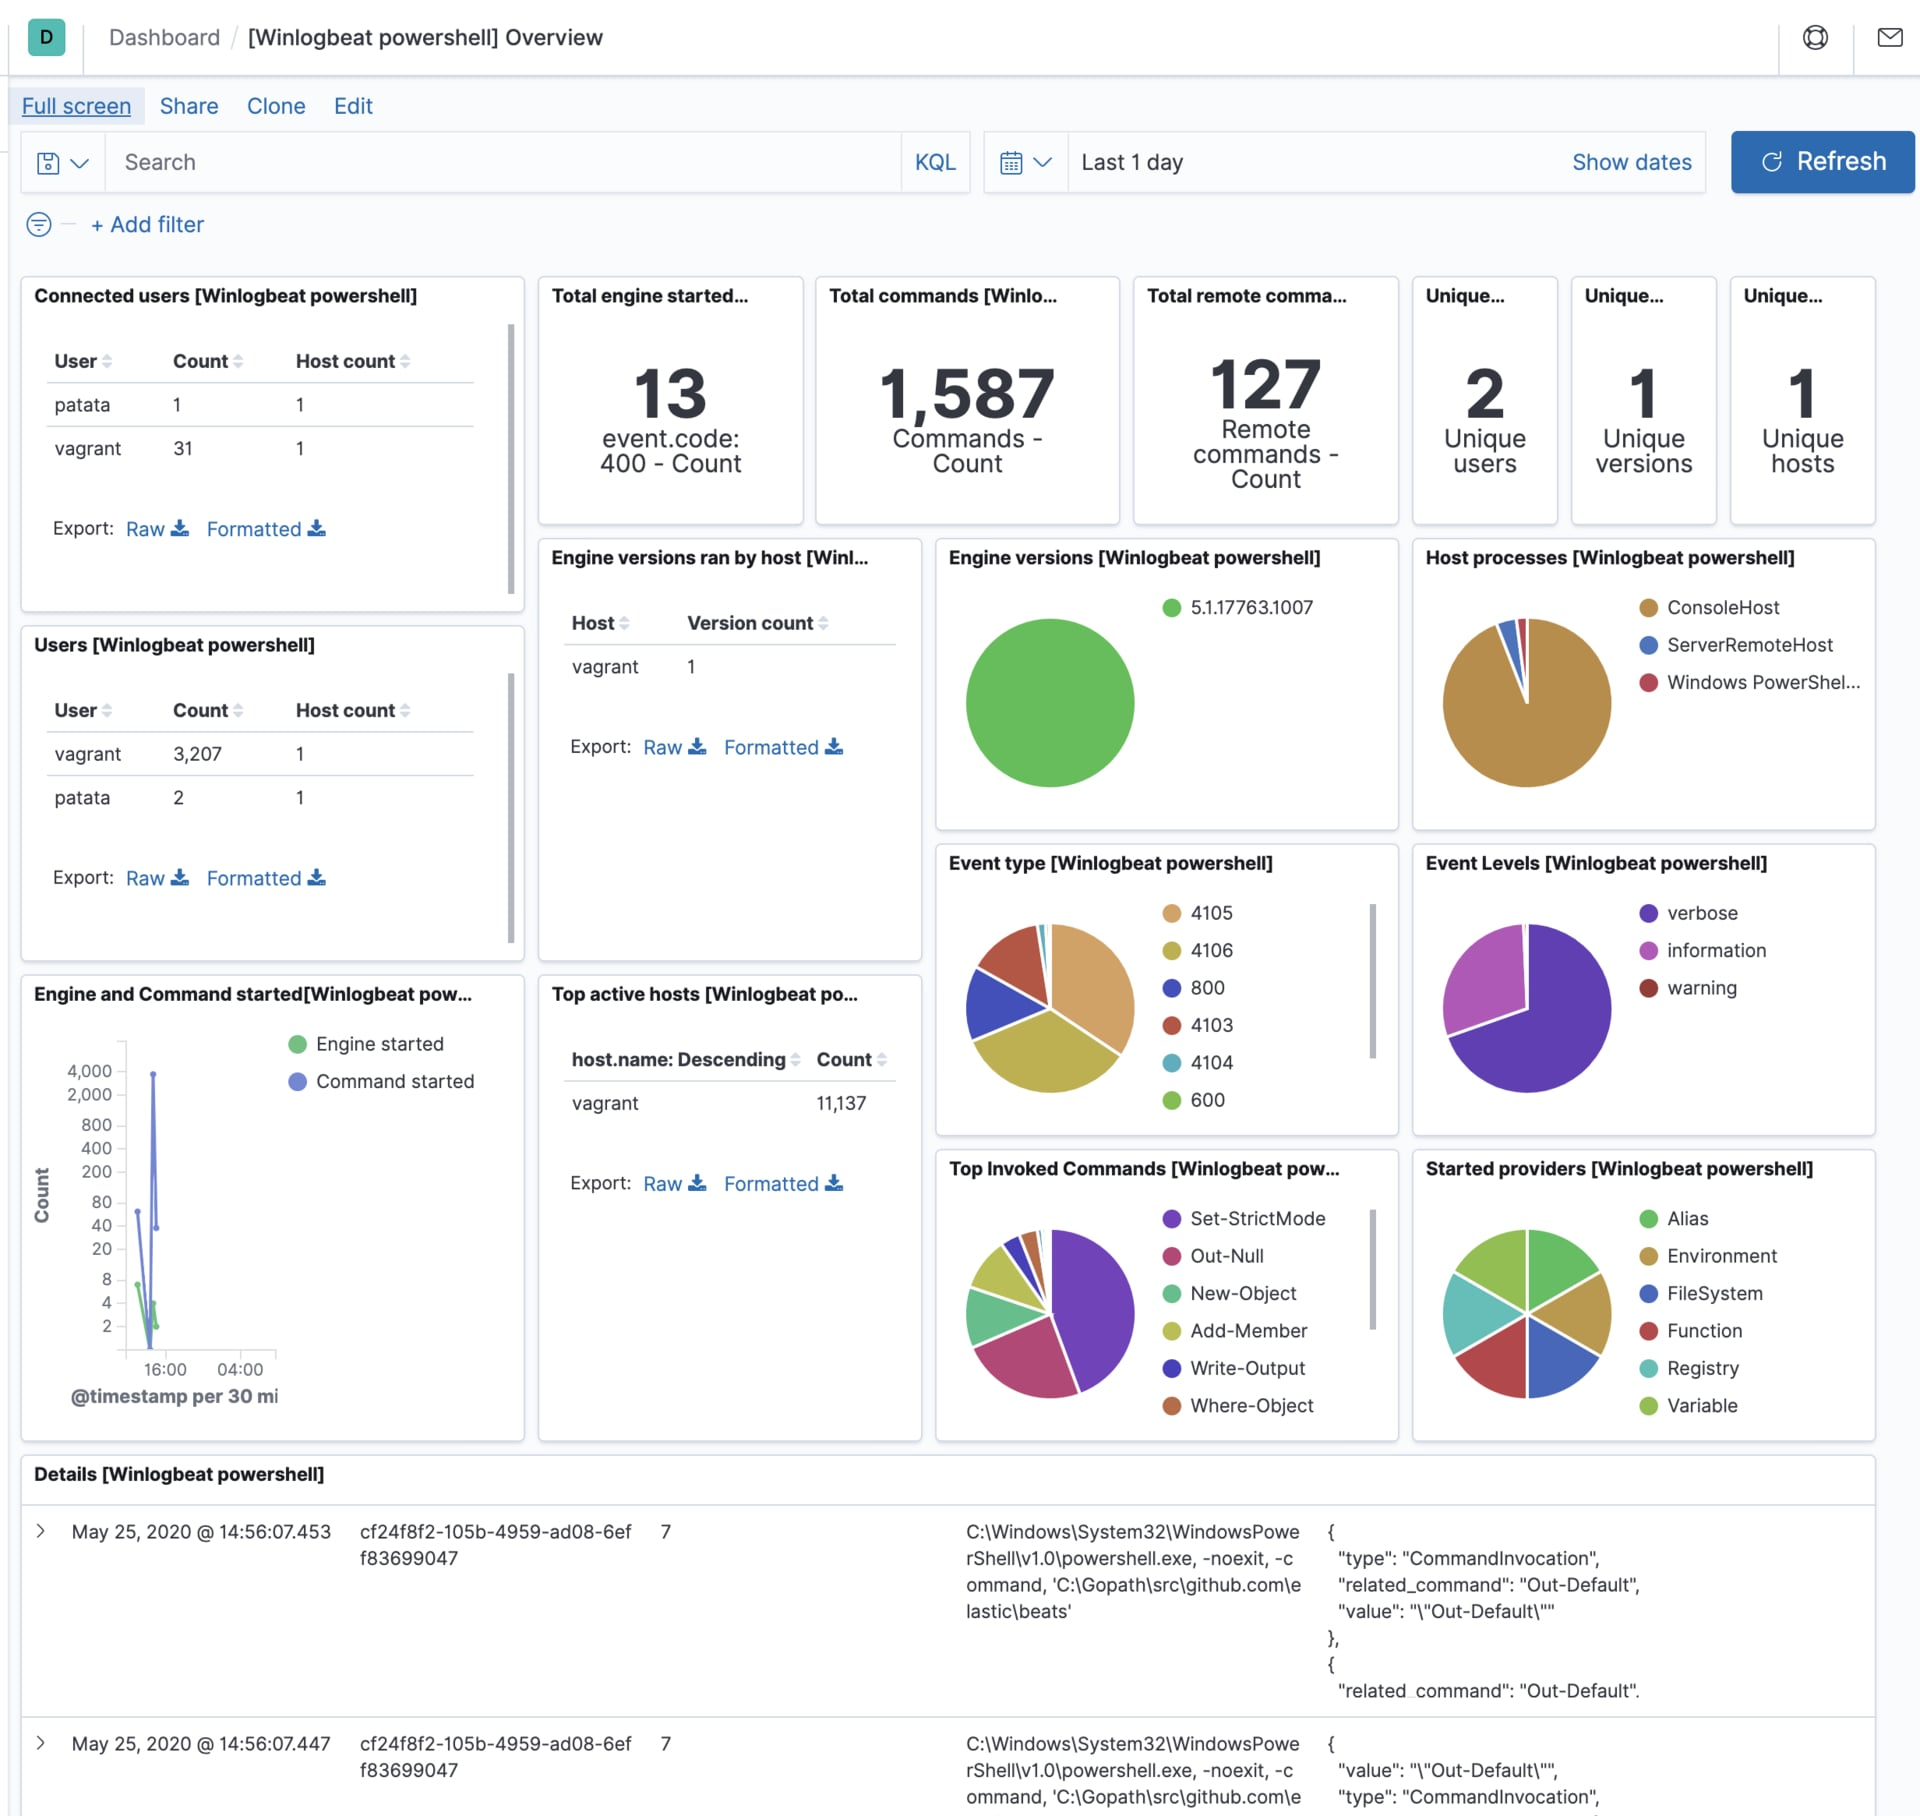
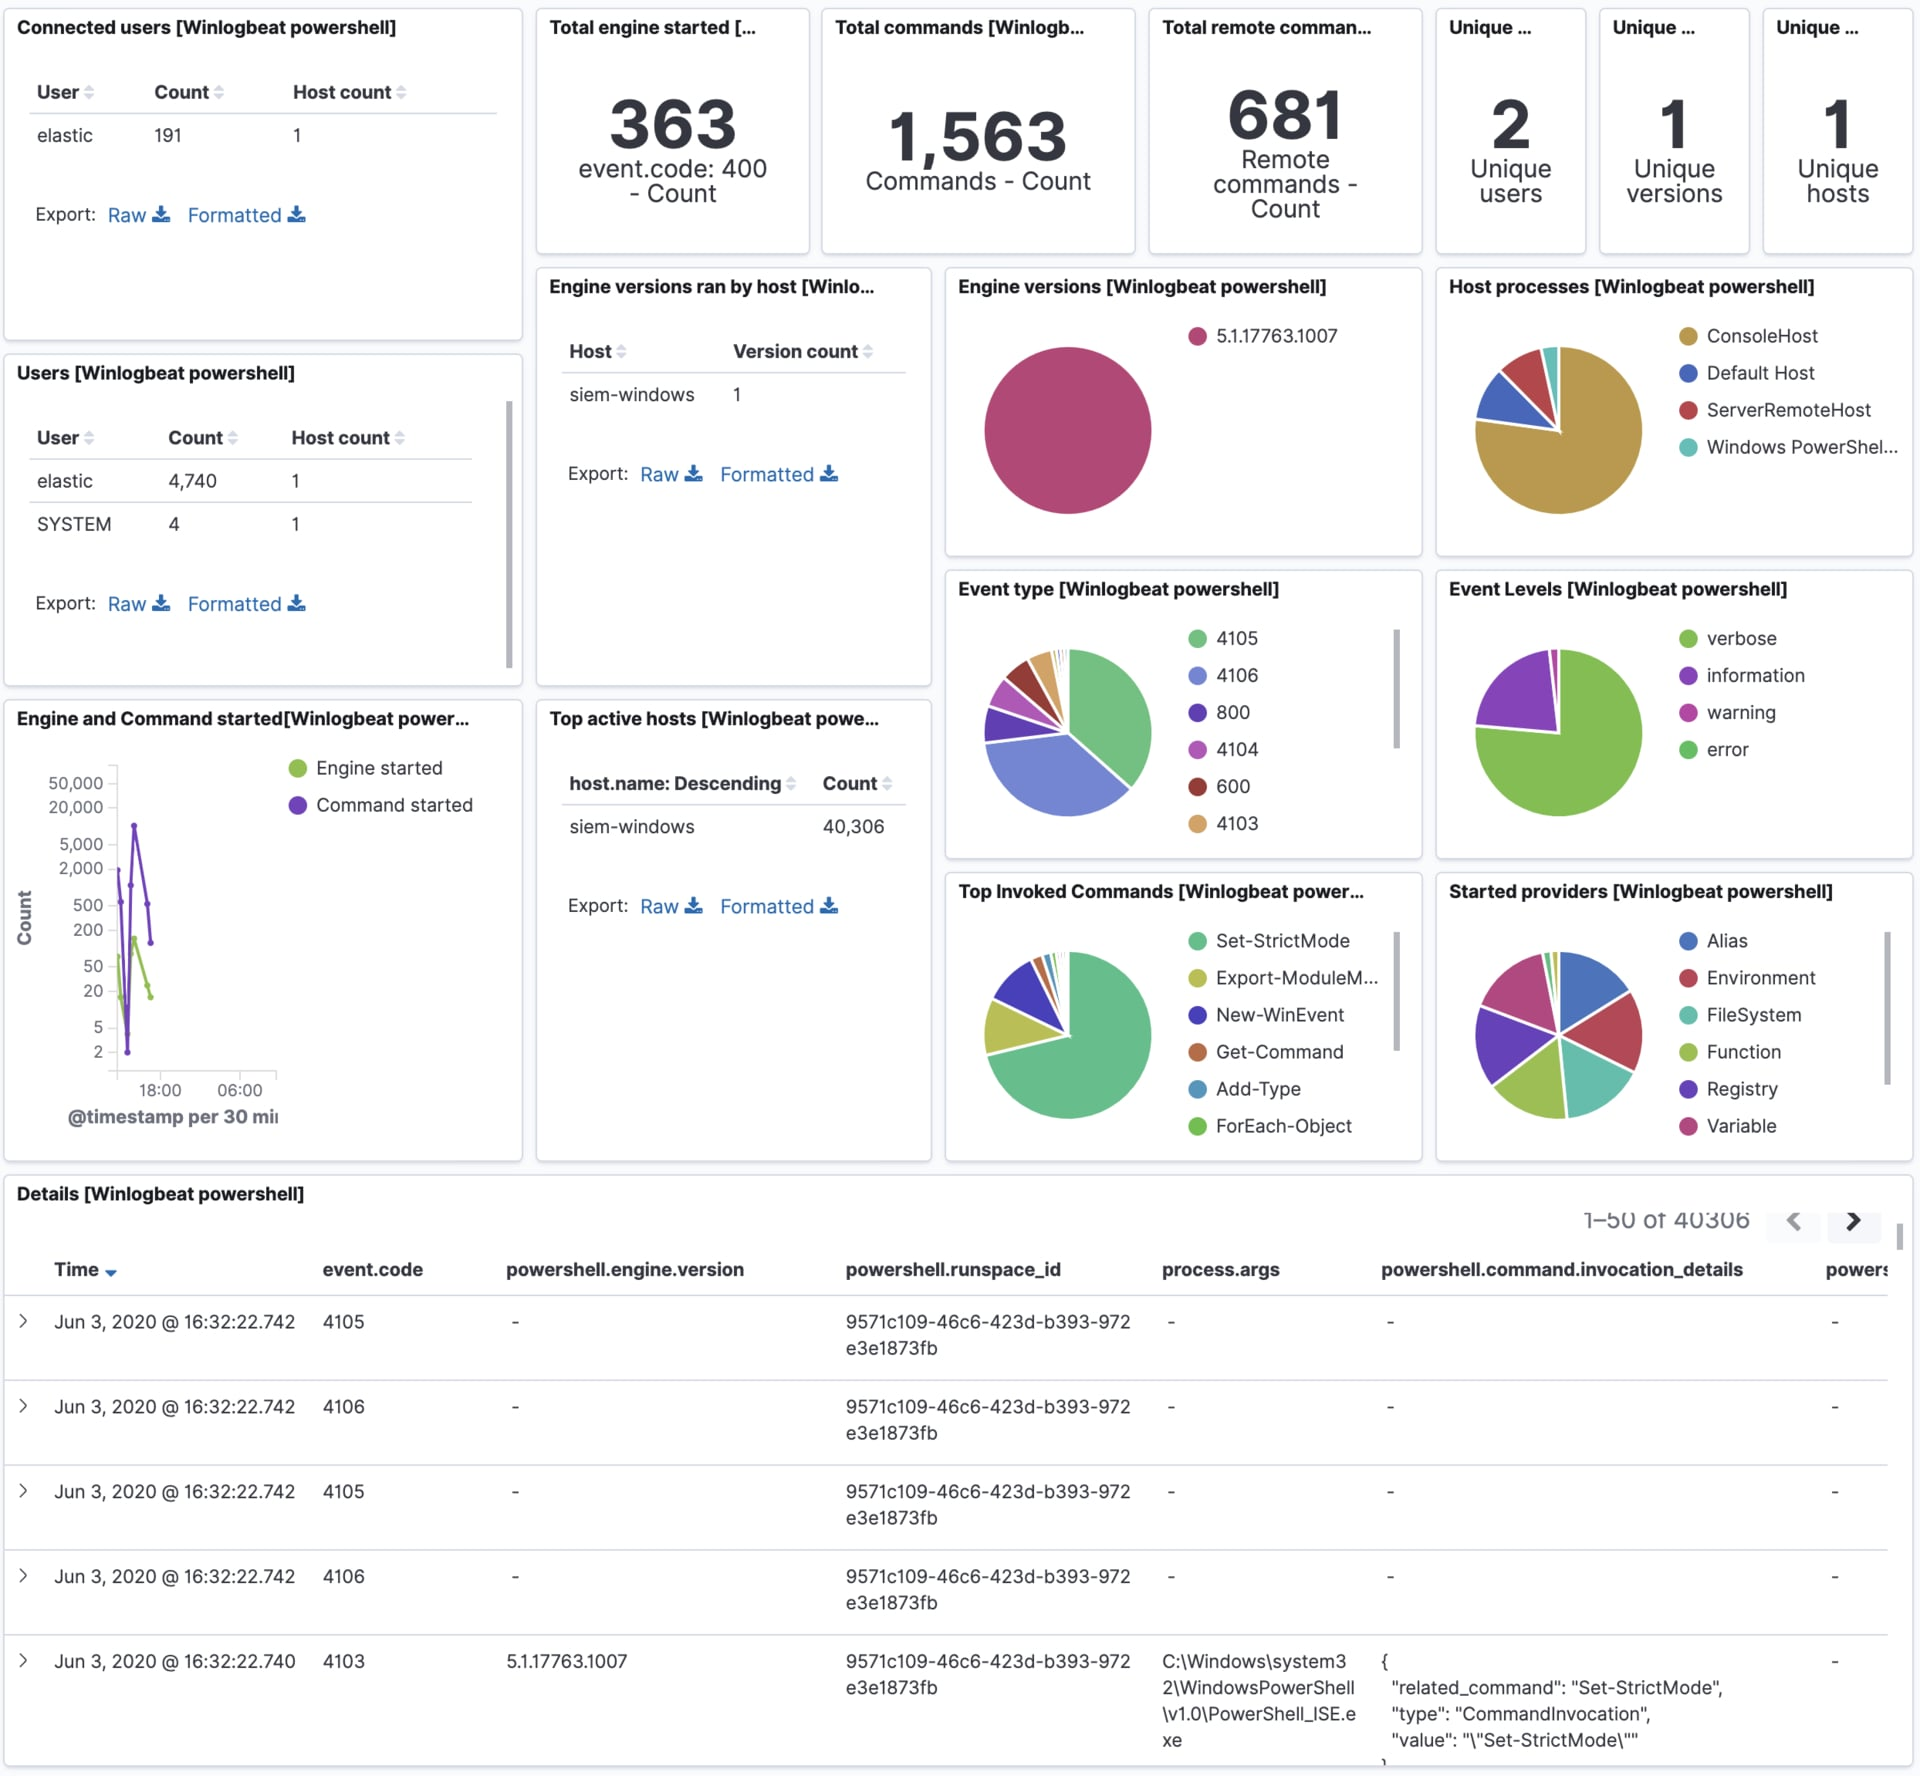
Fix winlogbeat powershell event processing. (#18966)
Fix winlogbeat powershell event processing.
- Fix event processing for different engine versions.
- Improve powershell dashboard

diff --git a/x-pack/winlogbeat/module/powershell/config/winlogbeat-powershell.js b/x-pack/winlogbeat/module/powershell/config/winlogbeat-powershell.js
@@ -84,8 +84,21 @@ var powershell = (function () {
         });
     };
 
+    // countChunksDelimitedBy will return the number of chunks contained in a field
+    // that are delimited by the given delimiter.
+    var countChunksDelimitedBy = function(evt, fromField, delimiter) {
+        var str = evt.Get(fromField);
+        if (!str) {
+            return 0;
+        }
+        return str.split(delimiter).length-1;
+    };
+
     var dissect4xxAnd600 = function (evt) {
-        dissectField("winlog.event_data.param3", "winlog.event_data", 15, "\t", "=").Run(evt);
+        var delimiter = "\t";
+        var chunks = countChunksDelimitedBy(evt, "winlog.event_data.param3", delimiter);
+
+        dissectField("winlog.event_data.param3", "winlog.event_data", chunks, delimiter, "=").Run(evt);
 
         // these fields contain redundant information.
         evt.Delete("winlog.event_data.param1");
@@ -94,7 +107,10 @@ var powershell = (function () {
     };
 
     var dissect800Detail = function (evt) {
-        dissectField("winlog.event_data.param2", "winlog.event_data", 13, "\t", "=").Run(evt);
+        var delimiter = "\t";
+        var chunks = countChunksDelimitedBy(evt, "winlog.event_data.param2", delimiter);
+
+        dissectField("winlog.event_data.param2", "winlog.event_data", chunks, "\t", "=").Run(evt);
 
         // these fields contain redundant information.
         evt.Delete("winlog.event_data.param1");
@@ -102,7 +118,10 @@ var powershell = (function () {
     };
 
     var dissect4103 = function (evt) {
-        dissectField("winlog.event_data.ContextInfo", "winlog.event_data", 16, "        ", " = ").Run(evt);
+        var delimiter = "        ";
+        var chunks = countChunksDelimitedBy(evt, "winlog.event_data.ContextInfo", delimiter);
+
+        dissectField("winlog.event_data.ContextInfo", "winlog.event_data", chunks, delimiter, " = ").Run(evt);
 
         // these fields contain redundant information.
         evt.Delete("winlog.event_data.ContextInfo");
@@ -170,7 +189,7 @@ var powershell = (function () {
     var addProcessArgs = function (evt) {
         splitCommandLine(evt, "process.command_line", "process.args");
         var args = evt.Get("process.args");
-        if (args.length > 0) {
+        if (args && args.length > 0) {
             evt.Put("process.args_count", args.length);
         }
     };